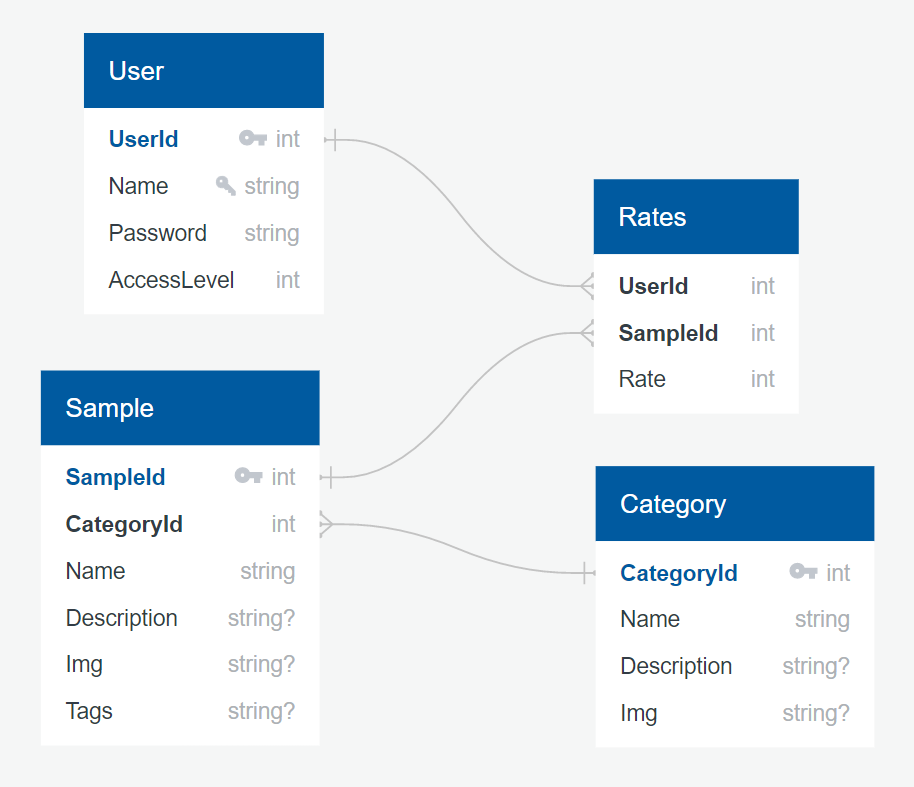
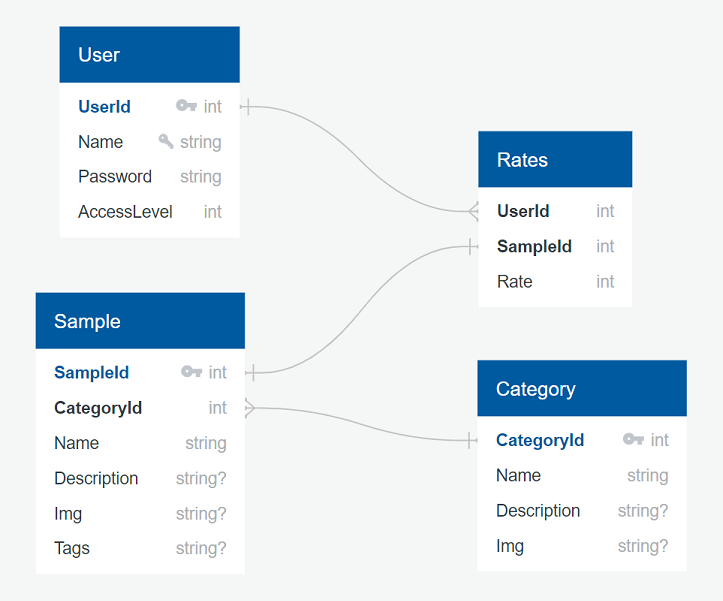
Rend. terv - Fiz. körny. és adatbázis kiegészítés

diff --git a/Doc/Rendszerterv.md b/Doc/Rendszerterv.md
@@ -31,11 +31,34 @@ Adatbázis: Oravecz Ákos
 
 ## 6. Fizikai környezet
 
+Az alkalmazás web platformra, hordozható eszközökre (okostelefonok, táblagépek) készül.
+- Nincsenek megvásárolt komponensek.
+- Kliens által biztosított eszközök:
+    - Webszerver
+    - Okostelefon
+    - Számítógép
+    - Táblagép
+- Fejlesztői eszközök:
+    - github
+    - Visual Studio Code
+    - Notepad++
+- Tesztelési környezet:
+    - Chrome
+    - Firefox
+    - Opera
+    - Safari
+    - Microsoft Edge
 
 ## 7. Architekturális terv
 
 
 ## 8. Adatbázis terv
+
+Az adatbázis 4 táblából fog állni, ezek össze lesznek kapcsolva. Egy felhasználóhoz (`User`) több értékelés (`Rates`) tartozik. Egy-egy értékelés egy mintára (`Sample`) hivatkozik. Több minta tartozhat egy kategóriába (`Category`).
+
+A minden felhasználó kap egy hozzáférési szintet, ami megadja, hogy rendelkezik-e az adott felhasználó például admin jogosultságokkal.
+
+Egy mintába, illetve kategóriba opcionálisan megadhatunk leírást és kép elérési útját. Egy mintához megadhatunk tageket is sztringként, ami vesszővel elválasztott felsorolás. Ez a tervezési megközelítés gyorsabb elérhetőséget biztosít.
 
 ![Adatbázis terv](/Doc/imgs/adatbazis.png)
 
